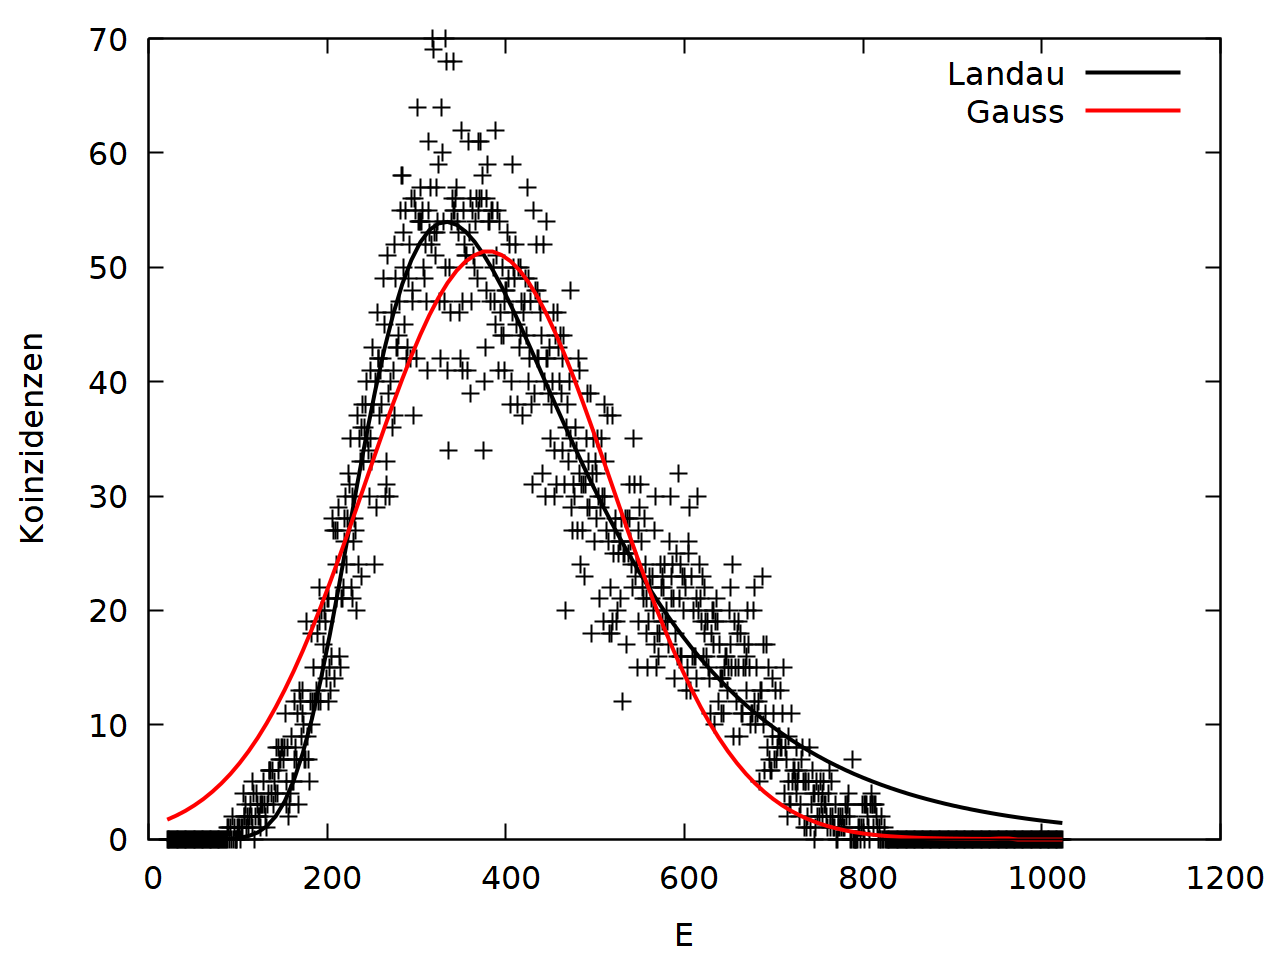
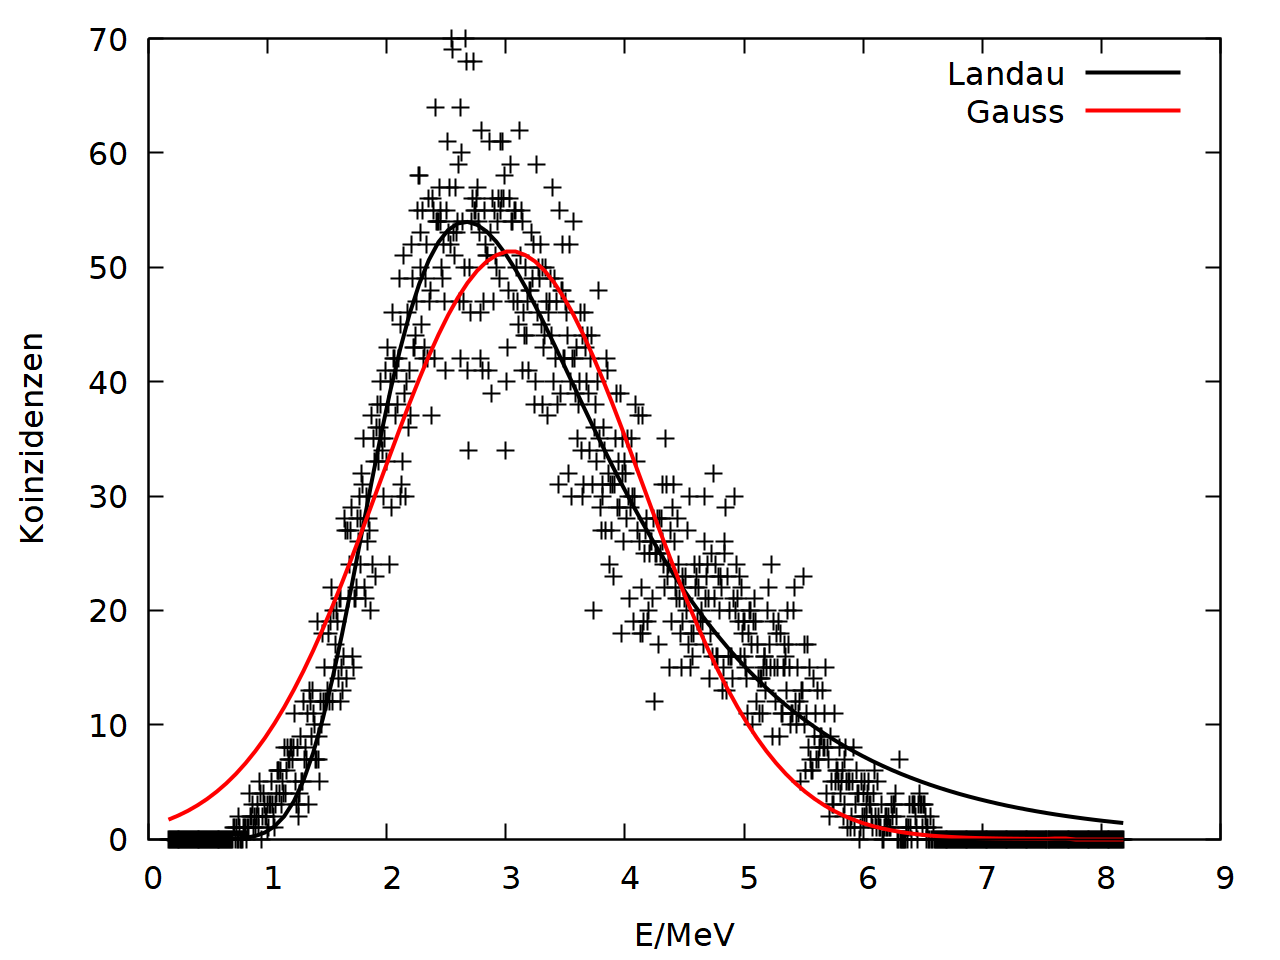
ende 518, (hoffentlich)

diff --git a/518/auswertung_friedrich.tex b/518/auswertung_friedrich.tex
@@ -129,20 +129,22 @@ Die Daten für diese Auswertung erhielten wir von den Tutoren, da sowohl wir als
 \label{fig:mca}
 \end{figure}
 
-Da in der Datei nur die Anzahl der Energieereignisse je Bin steht, aber nicht, wie groß die Bins sind oder wie groß der Offset ist, wird mit dimensionslosen Größen gearbeitet. Das ist für die Auswertung auch nicht relevant, da es nur um die qualitative Energieverteilung geht.  
+In der Datei steht nur die Anzahl der Energieereignisse je Bin steht, aber nicht, wie groß ein Bin ist. Aus der Konfigurationsdatei wurde geschlossen, dass ein Bin 8keV groß ist ('calfact=8' und 'calunit=keV'). Das ist für die Auswertung auch nicht relevant, da es nur um die qualitative Energieverteilung geht.  
 
-In Abb. \ref{fig:mca_raw} sind die gemessenen Werte abgebildet. Bei ganz kleinen Energien werden viele Ereignisse festgestellt (etwa in den ersten 20 Bins). Es wird sich dabei vermutlich um Untergrund handeln, der gerade so nicht von der Schwelle des Diskriminators abgeschnitten wurde. Deswegen nehmen wir die ersten 20 Bins aus der Auswertung heraus. An die Daten wird jetzt sowohl eine Landauverteilung
+In Abb. \ref{fig:mca_raw} sind die gemessenen Werte abgebildet. Bei ganz kleinen Energien werden viele Ereignisse festgestellt (etwa in den ersten 20 Bins). Es wird sich dabei vermutlich um Untergrund handeln, der die Schwelle des Diskriminators überschnitten hat. Deswegen nehmen wir die ersten 20 Bins aus der Auswertung heraus. An die Daten wird jetzt sowohl eine Landauverteilung
 \[A\exp{\left(-\frac{1}{2}((x-b)/l + e^{-(x-b)/l)}\right)}\] als auch eine Gaussverteilung gefittet
 
 \[B\exp{\left(-\frac{1}{2}((x-c)/d)^2 \right)}\]
  (siehe Abb. \ref{fig:mca}). Das Ergebnis der Fits ist
  \begin{align}
  A &= 89 \pm 0,7\\
- b &= 333 \pm 1\\
- l &= 83,2  \pm 0,8\\
+ b &= (2,664 \pm 0,008)\si{\mega\eV}\\
+ l &= (0,665  \pm 0,006)\si{\mega\eV}\\
  B &= 51,4 \pm 0,5\\
- c &= 380 \pm 1\\
- d &= 138 \pm 1
+ c &= (3,04\pm 0,01)\si{\mega\eV}\\
+ d &=( 1,10 \pm 0,01) \si{\mega\eV}
  \end{align}
  
-In Abb. \ref{fig:mca} kann man erkennen, dass die Landauverteilung deutlich besser die Messwerte annähert, als die Gaussverteilung. Nur bei großen Energien weicht die Landauverteilung von der Messung ab. Der lange Ausläufer der Landauverteilung existiert nicht, die Daten zeigen hier eher ein gaussförmiges Verhalten. Das liegt daran, dass die Landauverteilung nur eine gute Näherung für dünne Schichten ist, während die Gaussverteilung dicke Schichten beschreibt. Die verwendeten Detektoren haben eine Ausdehnung und können daher nicht vollständig durch eine Landauverteilung beschrieben werden. Deswegen hat die Verteilung keinen langen Schwanz.
+In Abb. \ref{fig:mca} kann man erkennen, dass die Landauverteilung deutlich besser die Messwerte annähert, als die Gaussverteilung. Nur bei großen Energien weicht die Landauverteilung von der Messung ab. Der lange Ausläufer der Landauverteilung existiert nicht, die Daten zeigen hier eher ein gaussförmiges Verhalten. Das liegt daran, dass die Landauverteilung nur eine gute Näherung für dünne Schichten ist, während die Gaussverteilung dicke Schichten beschreibt. Die verwendeten Detektoren haben eine Ausdehnung und können daher nicht vollständig durch eine Landauverteilung beschrieben werden. Deswegen hat die Verteilung keinen langen Schwanz.\\
+
+Das Maximum der Landauverteilung liegt bei $b \approx 2,7\si{\mega\eV}$. Das ist in grober Übereinstimmung mit Abb. \ref{fig:landau}, wo das Maximum bei etwa $2,4\si{\mega\eV}$ ist. Die gemessene Energie ist also etwas größer als die theoretisch berechnete. Dabei ist aber zu beachten, dass es bei der theoretischen Berechnung viele unbekannte Größen gab, die nur abgeschätzt wurden. Die Differenz zwischen Theorie und Experiment ist also nicht unerwartet.
